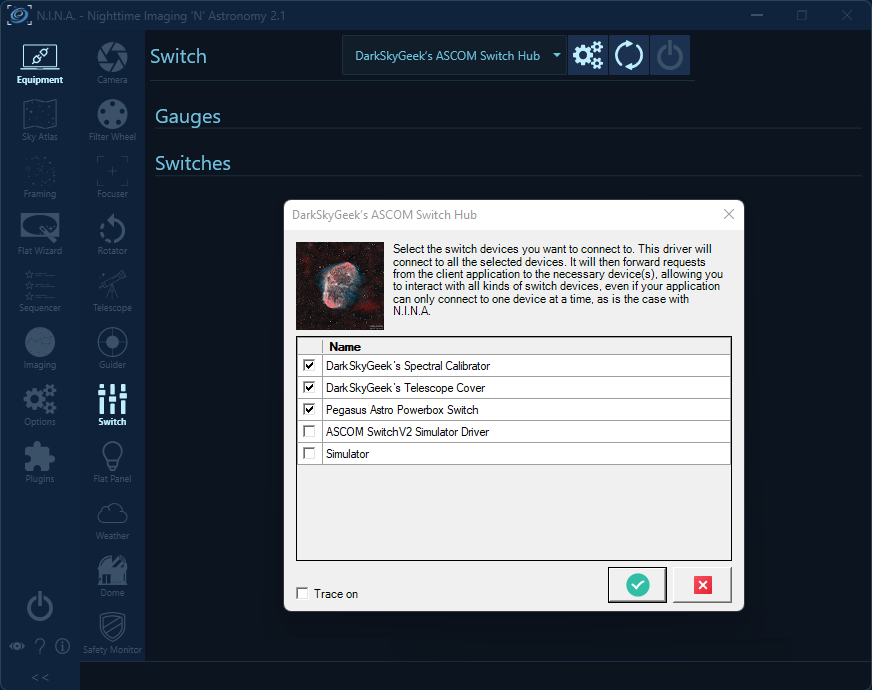
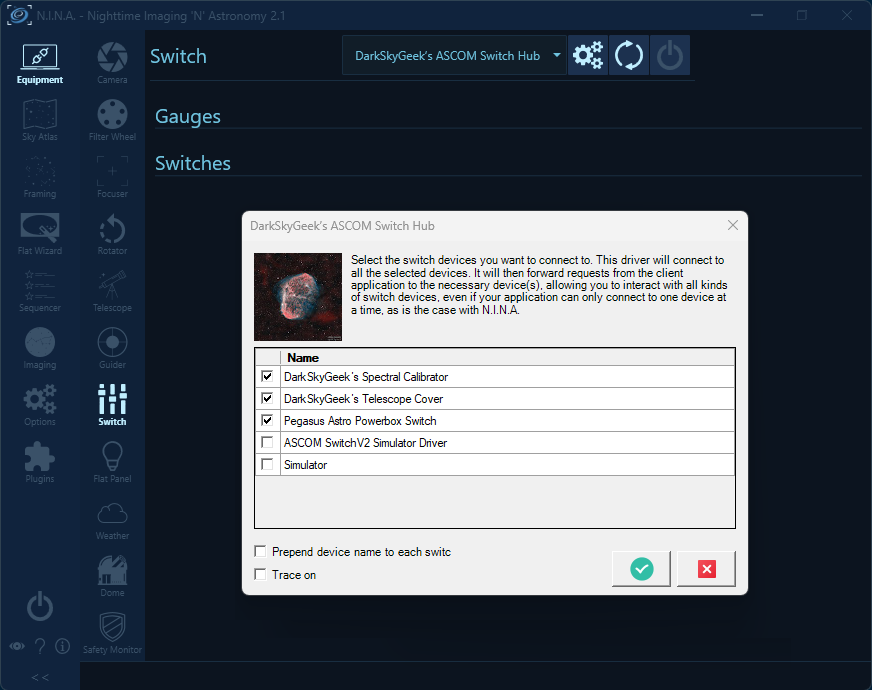
Updated README

Changed region(s): [[0.2787, 0.2739, 0.867, 0.913]]

diff --git a/README.md b/README.md
@@ -19,6 +19,10 @@ Upon connecting the ASCOM Switch Hub, you should be able to see all the switches
 
 ![Screenshot of equipment switch tab in N.I.N.A.](screenshot2.png)
 
+If you happen to have to switches or gauges named exactly the same way, you can enable the option to prepend the device name to each switch. That option is disabled by default because few people will encounter that issue, and with that option, the N.I.N.A. UI would look a little bit "busy":
+
+![Screenshot of equipment switch tab in N.I.N.A. with the device name prepended to each switch](screenshot3.png)
+
 ## Downloading And Installing The Driver
 
 **Step 1:** Download the driver from the [releases page](https://github.com/jlecomte/ascom-switch-hub/releases), and place the file `ASCOM.DarkSkyGeek.SwitchHub.dll` somewhere on your system (example: `C:\Users\julien\ascom-switch-hub\`).
